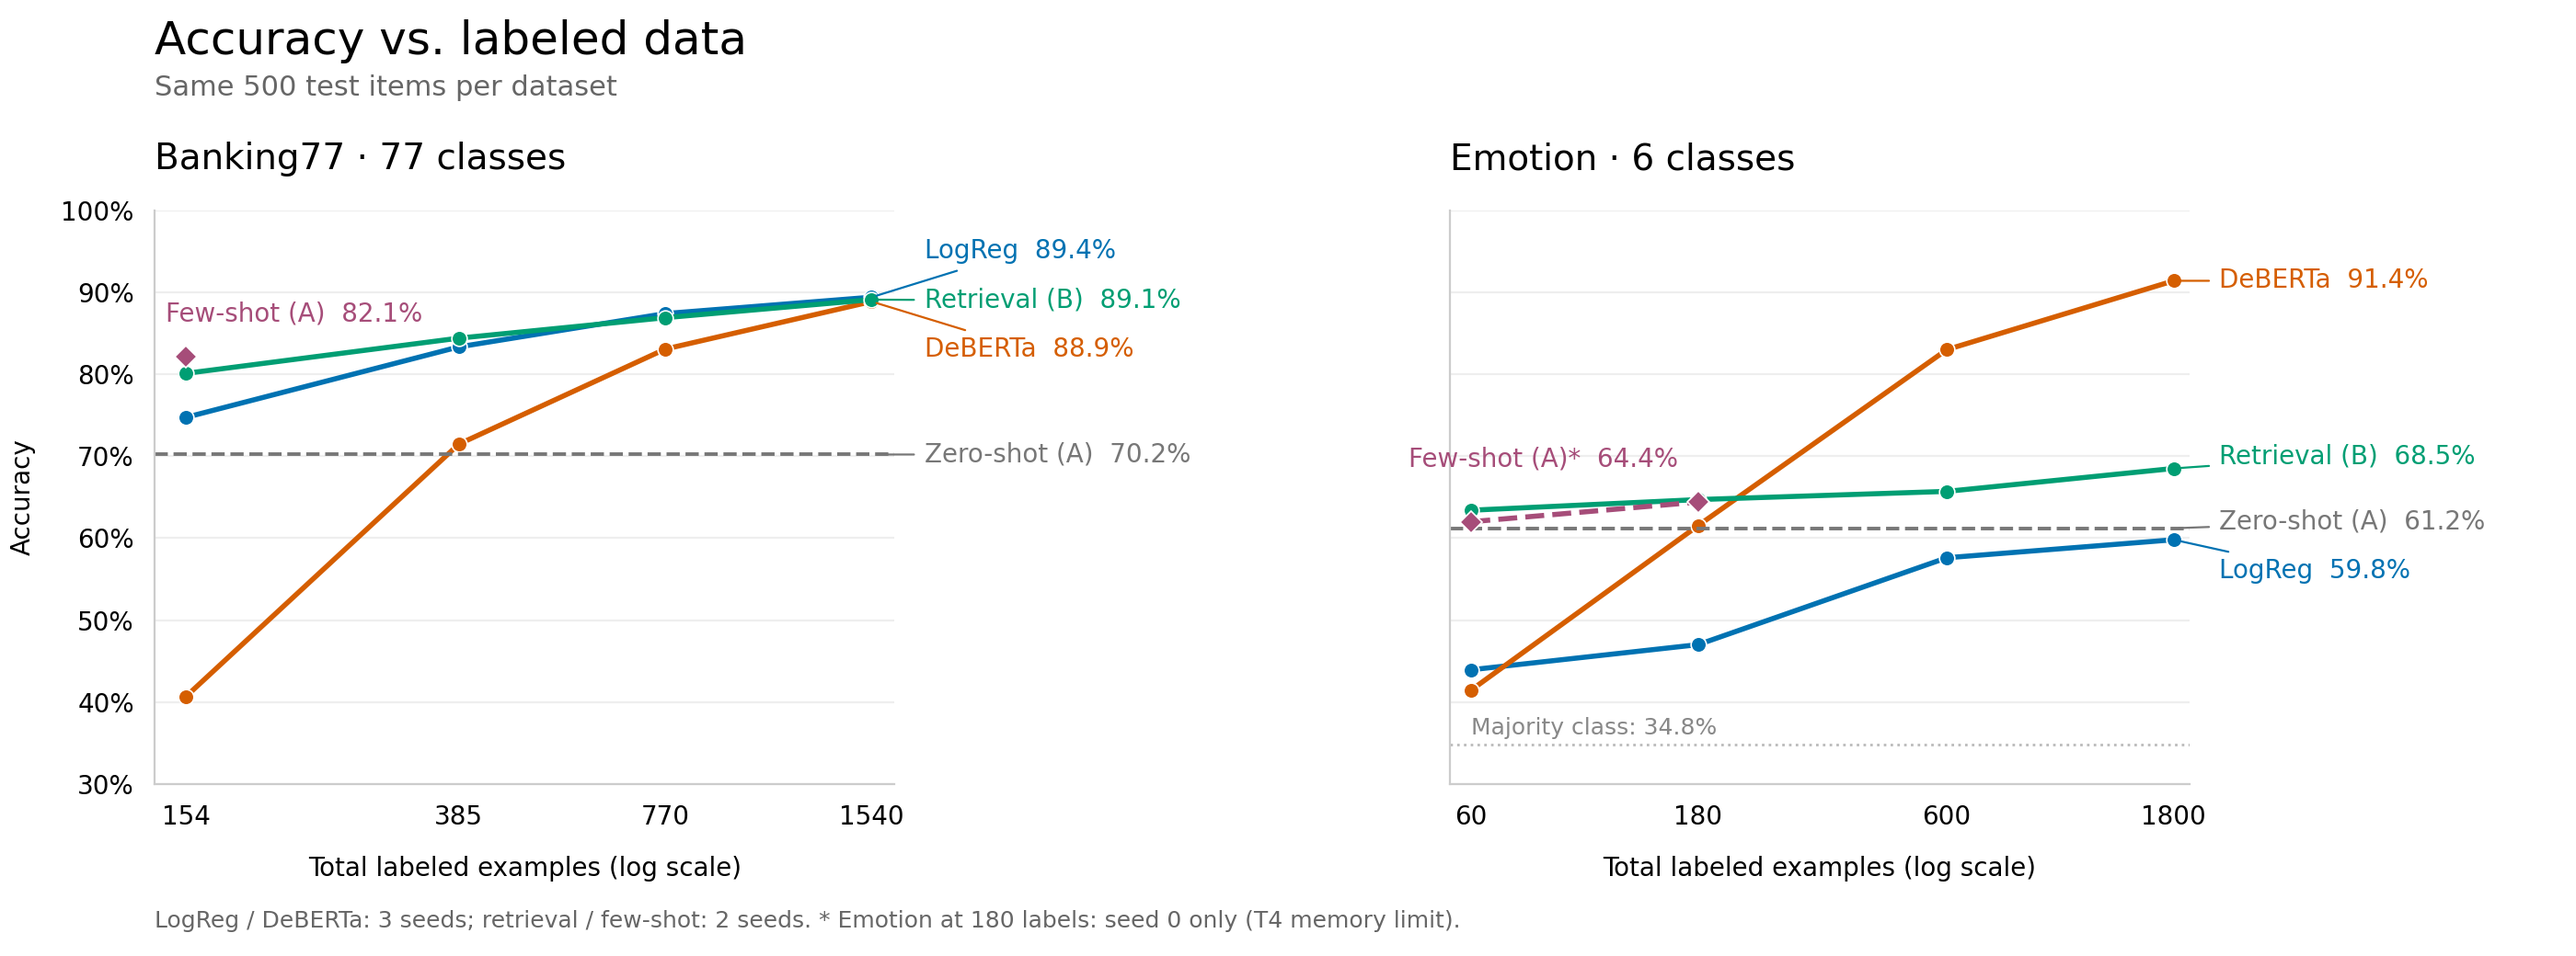
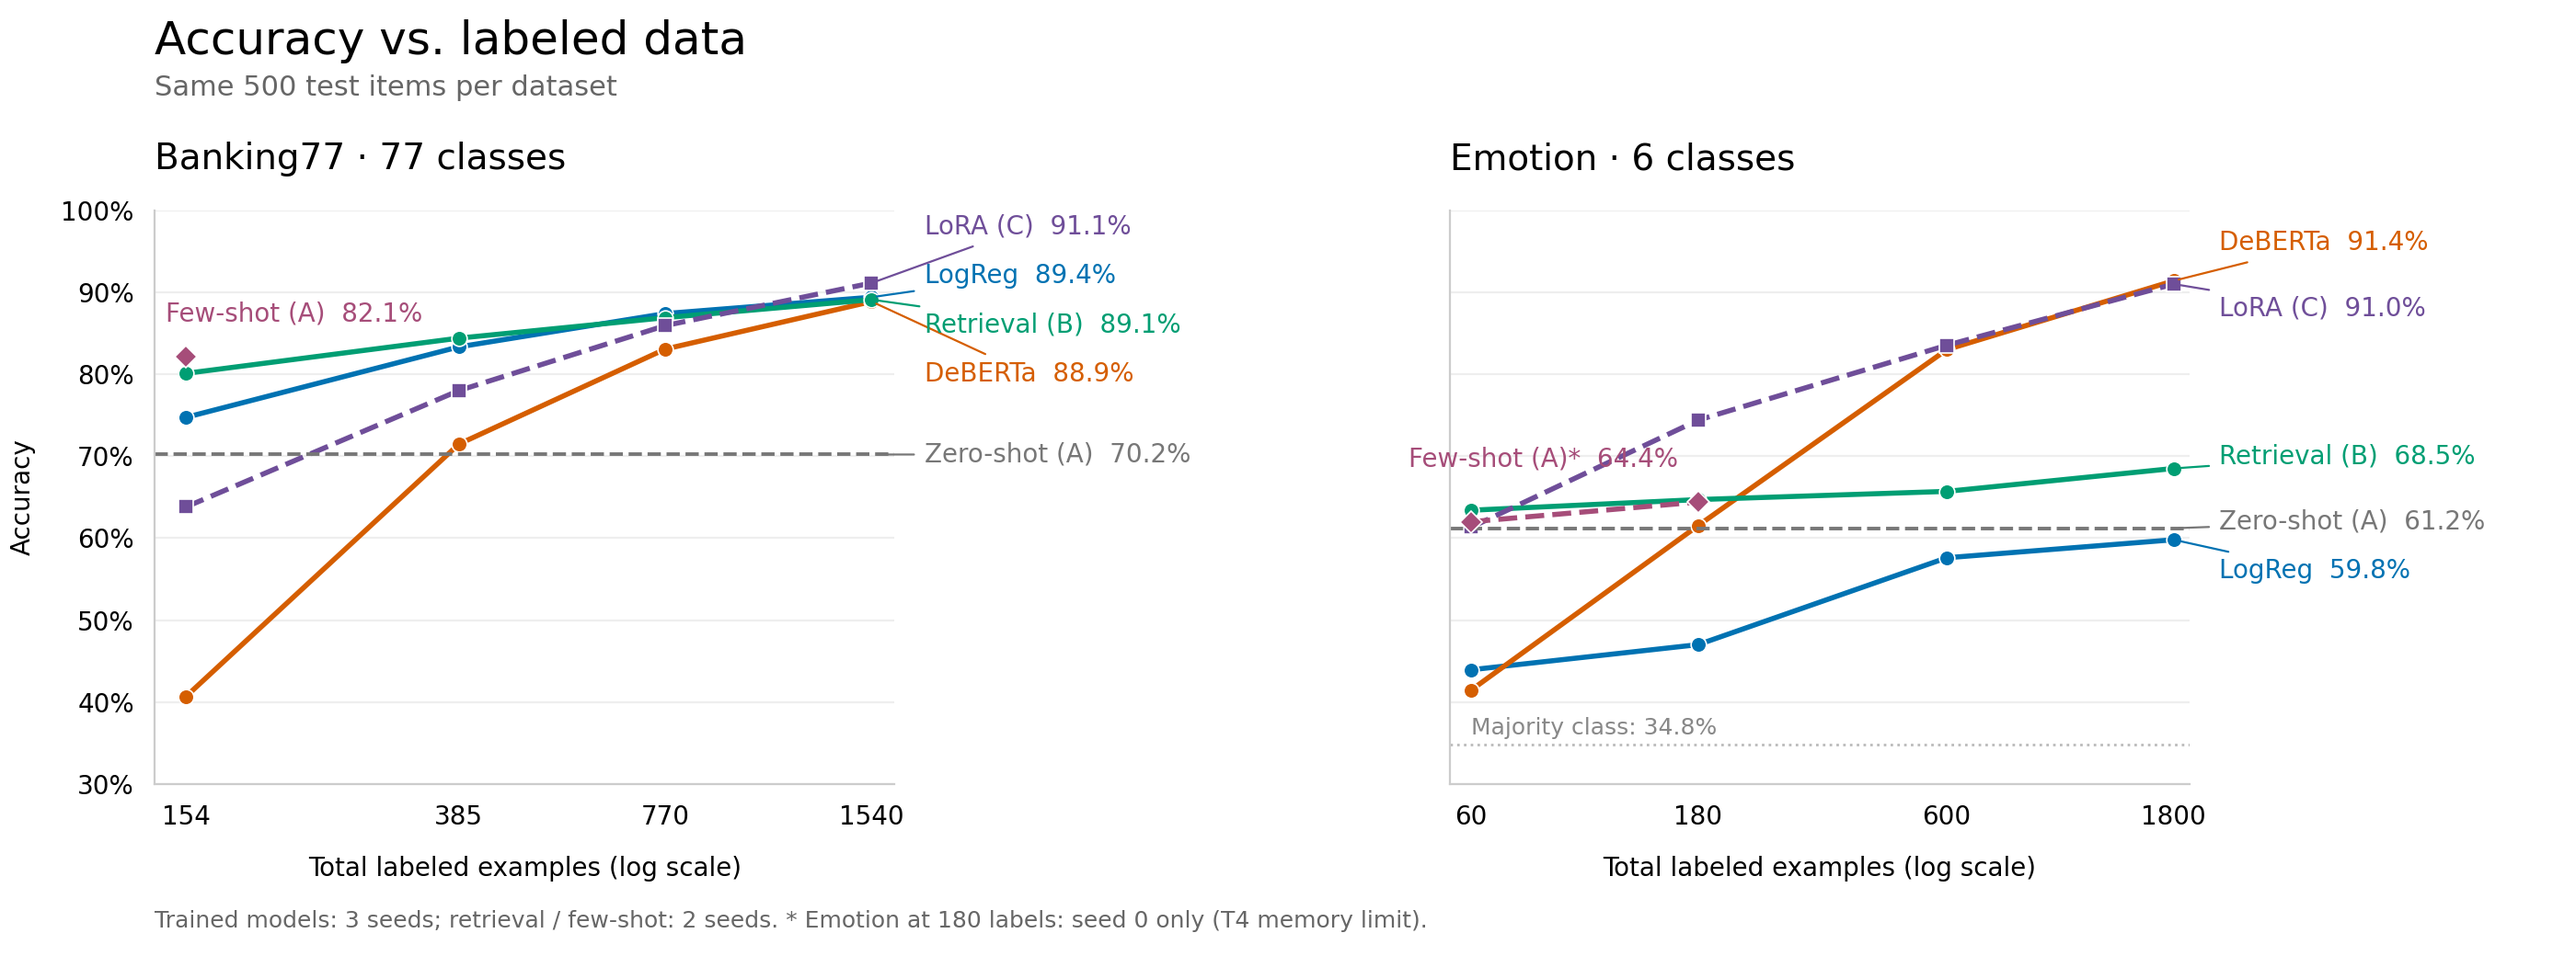
Add LoRA results to learning curves

diff --git a/make_plots.py b/make_plots.py
@@ -15,8 +15,8 @@ SYSTEMS = {
     "logreg": ("LogReg", "#0072B2"),
     "deberta": ("DeBERTa", "#D55E00"),
     "B": ("Retrieval (B)", "#009E73"),
+    "C": ("LoRA (C)", "#6F4E99"),
 }
-
 
 def load_correct(system, name, budget):
     seeds = config.SEEDS
@@ -62,10 +62,27 @@ def make_figure(show_ci=False):
         n_classes = len(data.load_labels(name))
         budgets = config.DATASETS[name]["budgets"]
         xs = [b * n_classes for b in budgets]
-        heights = {"logreg": 0.95, "deberta": 0.83, "B": 0.89} if name == "banking77" else {
-            "logreg": 0.56, "deberta": 0.914, "B": 0.70}
+        if name == "banking77":
+            heights = {
+                "C": 0.98,
+                "logreg": 0.92,
+                "B": 0.86,
+                "deberta": 0.80,
+            }
+        else:
+            heights = {
+                "deberta": 0.96,
+                "C": 0.88,
+                "B": 0.70,
+                "logreg": 0.56,
+            }
+
         for system, (label, color) in SYSTEMS.items():
-            _, means = plot_curve(ax, system, name, budgets, color, show_ci)
+            _, means = plot_curve(
+                ax, system, name, budgets, color, show_ci,
+                marker="s" if system == "C" else "o",
+                linestyle="--" if system == "C" else "-",
+            )
             label_line(ax, xs[-1], means[-1], label, color, heights[system])
 
         mean, low, high = evaluate.bootstrap_ci(load_correct("A_zero", name, 0))
@@ -109,7 +126,7 @@ def make_figure(show_ci=False):
                  x=0.06, ha="left", fontsize=18, y=0.98)
     fig.text(0.06, 0.90, f"Same {config.HEADLINE_TEST_SIZE} test items per dataset",
              fontsize=11, color="#666666")
-    fig.text(0.06, 0.03, "LogReg / DeBERTa: 3 seeds; retrieval / few-shot: 2 seeds. "
+    fig.text(0.06, 0.03, "Trained models: 3 seeds; retrieval / few-shot: 2 seeds. "
              "* Emotion at 180 labels: seed 0 only (T4 memory limit).", fontsize=9, color="#666666")
     if show_ci:
         fig.text(0.06, 0.07, "Error bars: 95% bootstrap intervals over test items.",
